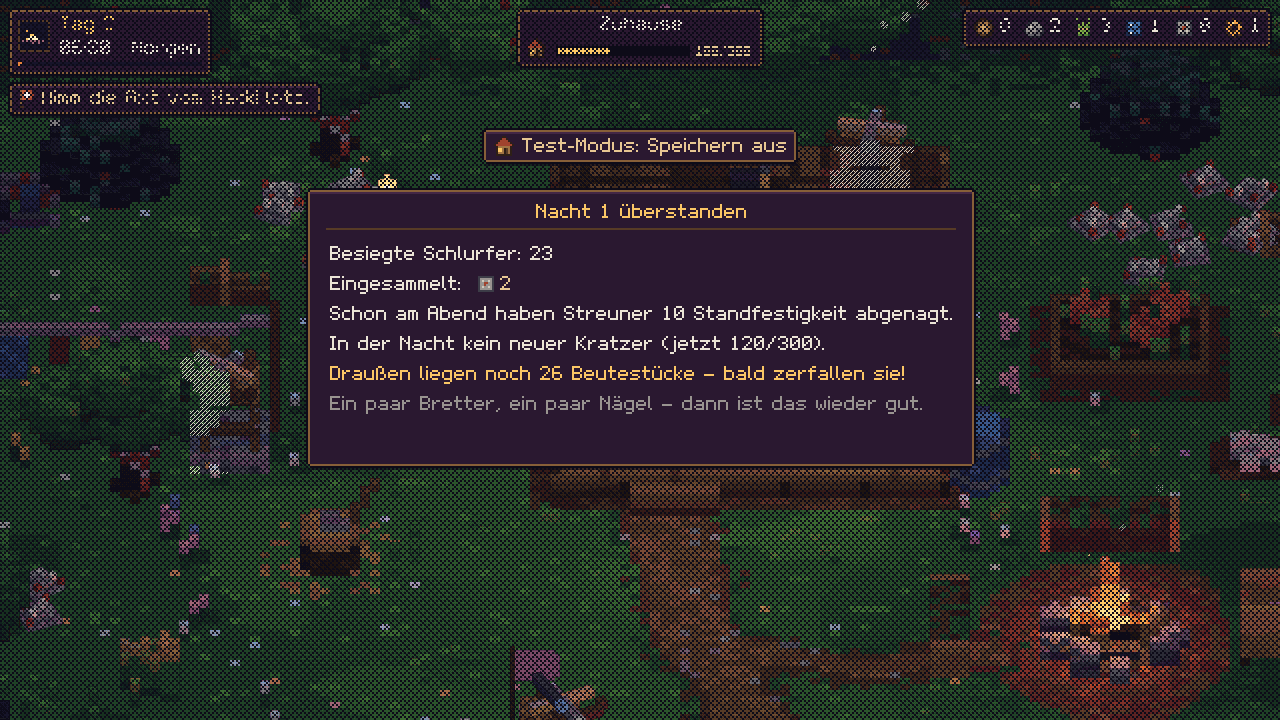
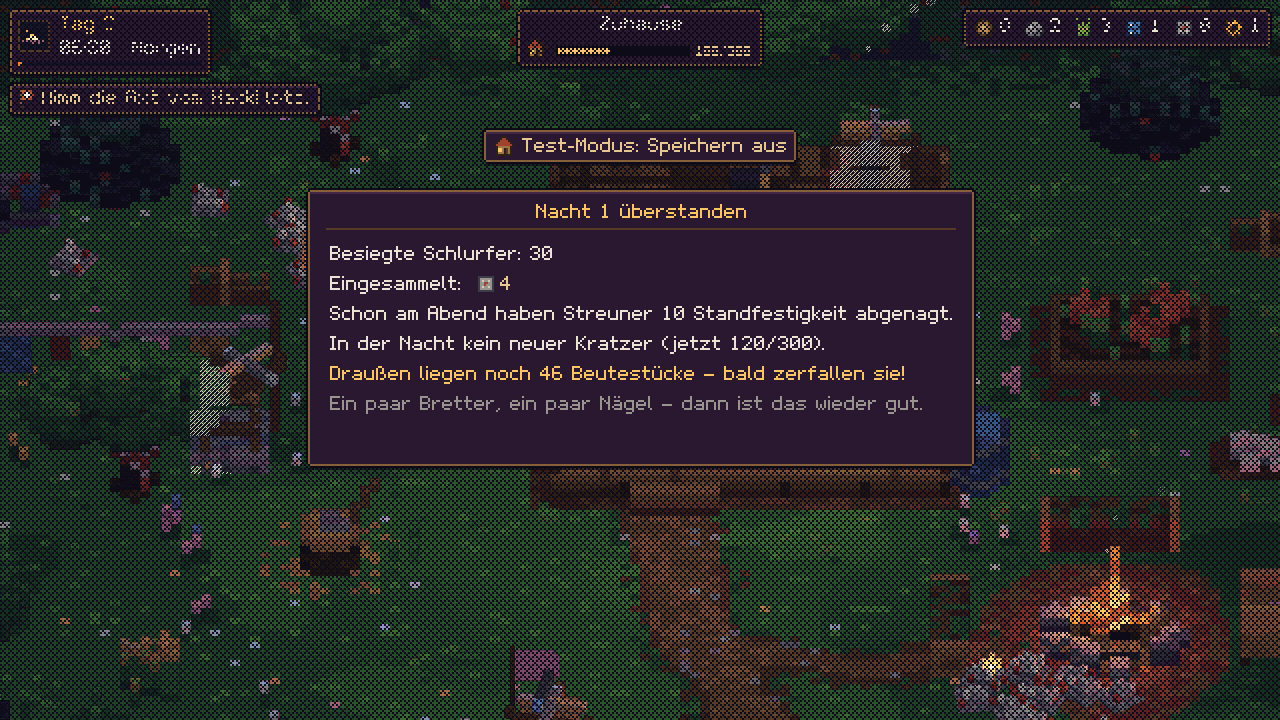
M8: Tempo und Herausforderung – schnellere Zeit, fordernde Nächte ab Nacht 1
Nutzer-Rückmeldung: »die Zeit vergeht zu langsam, die Zombies sind keine Herausforderung, schon gar nicht in Nacht 1«.

- 1 Spielminute 0,4 s statt 0,6 s (ein Tag rund 9 statt 14 Minuten).
- Nachtbudget 26 + 8·(n−1) + (n−1)² statt 18 + 7·(n−1) + (n−1)²; Flitzer schon in Nacht 1.
- Schlurfer schneller (0,8 m/s) und bissiger (7); jede Art spürt Mika aus eigener Entfernung (Flitzer 6,5 m, Schlurfer 4,5 m, Schwärmer 5 m, Brummer 3,5 m statt 3,2 m für alle).
- Schläge aufs Zuhause 80 % statt 60 %.
- Prüfskript: verlorene Nacht liest den Verlust aus dem Bericht.

Claude-Session: https://claude.ai/code/session_01TsPpnSS87ainXGtjm16X9R

diff --git a/src/data/zombies.js b/src/data/zombies.js
@@ -7,14 +7,16 @@
 //   bite      Schaden pro Schlag gegen Mika
 //   hitRate   Schläge pro Sekunde        scale   Größe (1 = wie Mika)
 //   radius    Kollisionsradius
+//   aggro     ab dieser Nähe (m) gehen sie nachts auf Mika los (M8: vorher 3,2 für alle)
 
 export const ZOMBIES = {
   schlurfer: {
     hp: 30,
-    speed: 0.72,
+    speed: 0.8, // M8: 0,72 – keine Herausforderung
     armor: 0,
     hit: 4,
-    bite: 6,
+    bite: 7,
+    aggro: 4.5,
     hitRate: 0.6,
     scale: 1,
     radius: 0.28,
@@ -27,6 +29,7 @@ export const ZOMBIES = {
     armor: 0,
     hit: 3,
     bite: 5,
+    aggro: 6.5, // schnell und neugierig: sucht Mika zuerst
     hitRate: 1,
     scale: 0.95,
     radius: 0.25,
@@ -39,6 +42,7 @@ export const ZOMBIES = {
     armor: 0,
     hit: 2,
     bite: 3,
+    aggro: 5,
     hitRate: 0.9,
     scale: 0.62,
     radius: 0.2,
@@ -51,6 +55,7 @@ export const ZOMBIES = {
     armor: 6,
     hit: 12,
     bite: 12,
+    aggro: 3.5,
     hitRate: 0.5,
     scale: 1.4,
     radius: 0.42,
@@ -95,7 +100,10 @@ export const ZOMBIES = {
  * vorbei, fiel das Zuhause in wenigen Sekunden – zu schnell, um hinzulaufen und
  * mitzukämpfen. Türme, Barrikaden und Mika treffen die Schlurfer wie bisher.
  */
-export const HOUSE_DAMAGE = 0.6;
+export const HOUSE_DAMAGE = 0.8; // M8: 0,6 machte die Nächte zu harmlos
+
+/** Nachts: Spürweite für Arten ohne eigenen Wert (m). */
+export const NIGHT_AGGRO = 4;
 
 /** Tagesschlurfer: träge, wenig Leben, kaum Loot, greifen nur sehr nah an. */
 export const DAY_ZOMBIE = { type: 'schlurfer', hpFactor: 0.7, speedFactor: 0.65, lootFactor: 0.5, aggro: 1.4 };

diff --git a/src/data/waves.js b/src/data/waves.js
@@ -34,10 +34,11 @@ export function isLeaderNight(n) {
  * viele Wellen sie sich verteilen (m3-r1: 18 → 21 → 46 war ein Sprung).
  * Ab Nacht 2 steiler (m3-r2: »leichter statt schwerer«, das Loot wuchs
  * schneller als die Bedrohung). Nacht 1 bleibt sanft.
- * Nacht 1: 18, 2: 26, 3: 36, 4: 48, 5: 62, 8: 116.
+ * M8: »keine Herausforderung, schon gar nicht in Nacht 1« – mehr ab Nacht 1.
+ * Nacht 1: 26, 2: 35, 3: 46, 4: 59, 5: 74, 8: 131 (vorher 18, 26, 36, 48, 62, 116).
  */
 export function nightBudget(n) {
-  return 18 + 7 * (n - 1) + (n - 1) ** 2;
+  return 26 + 8 * (n - 1) + (n - 1) ** 2;
 }
 
 export function planNight(n, seed, entries) {
@@ -71,7 +72,7 @@ export function planNight(n, seed, entries) {
     while (left > 0.4) {
       const r = rng.next();
       if (n >= 3 && r < 0.14) add('schwaermer', rng.int(3, 5));
-      else if (n >= 2 && r < 0.5) add('flitzer');
+      else if (r < (n >= 2 ? 0.5 : 0.25)) add('flitzer'); // M8: ein paar Flitzer schon in Nacht 1
       else add('schlurfer');
     }
     for (let i = groups.length - 1; i > 0; i--) {

diff --git a/src/entities/horde.js b/src/entities/horde.js
@@ -17,7 +17,7 @@
 import * as THREE from 'three';
 import { createWorldMaterial, createSilhouetteMaterial } from '../render/materials.js';
 import { V } from '../world/layout.js';
-import { ZOMBIES } from '../data/zombies.js';
+import { ZOMBIES, DAY_ZOMBIE, NIGHT_AGGRO } from '../data/zombies.js';
 import { zombieParts, ZOMBIE_TYPES } from './zombieModels.js';
 import { damp, dampAngle } from '../core/math.js';
 
@@ -179,7 +179,7 @@ export class Horde {
       lastZ: start.z,
       target: null,
       deathT: 0,
-      aggro: day ? 1.4 : 3.2,
+      aggro: day ? DAY_ZOMBIE.aggro : def.aggro ?? NIGHT_AGGRO,
       lootFactor: day ? 0.5 : 1,
     };
     if (o.entry) z.facing = Math.atan2(o.entry.x - start.x, o.entry.z - start.z);

diff --git a/src/config.js b/src/config.js
@@ -40,7 +40,7 @@ export const CONFIG = {
     seed: Number(params.get('seed')) || 20260926,
   },
   time: {
-    secondsPerGameMinute: 0.6,
+    secondsPerGameMinute: 0.4, // M8: 0,6 s zogen sich (ein Tag rund 9 statt 14 Minuten)
     newGameMinute: 60, // 07:00
     wakeMinute: 30, // 06:30
     nightStartMinute: 12 * 60, // 18:00 – ab hier darf man ohne Nachfrage schlafen
